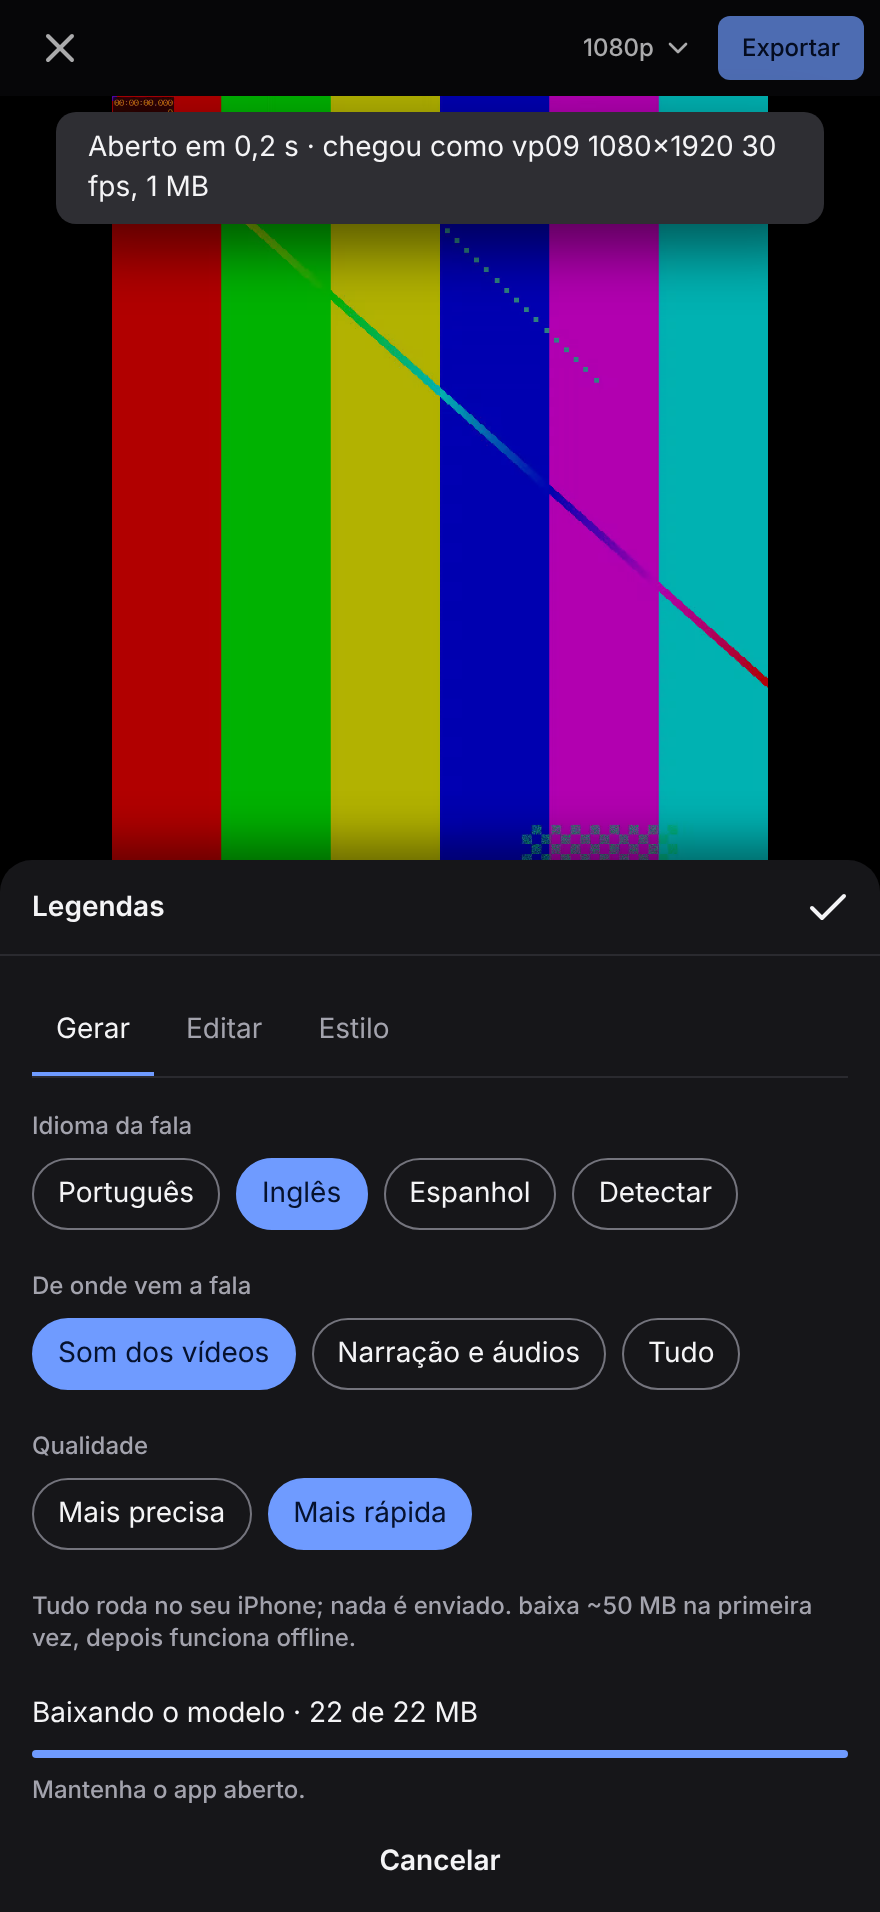
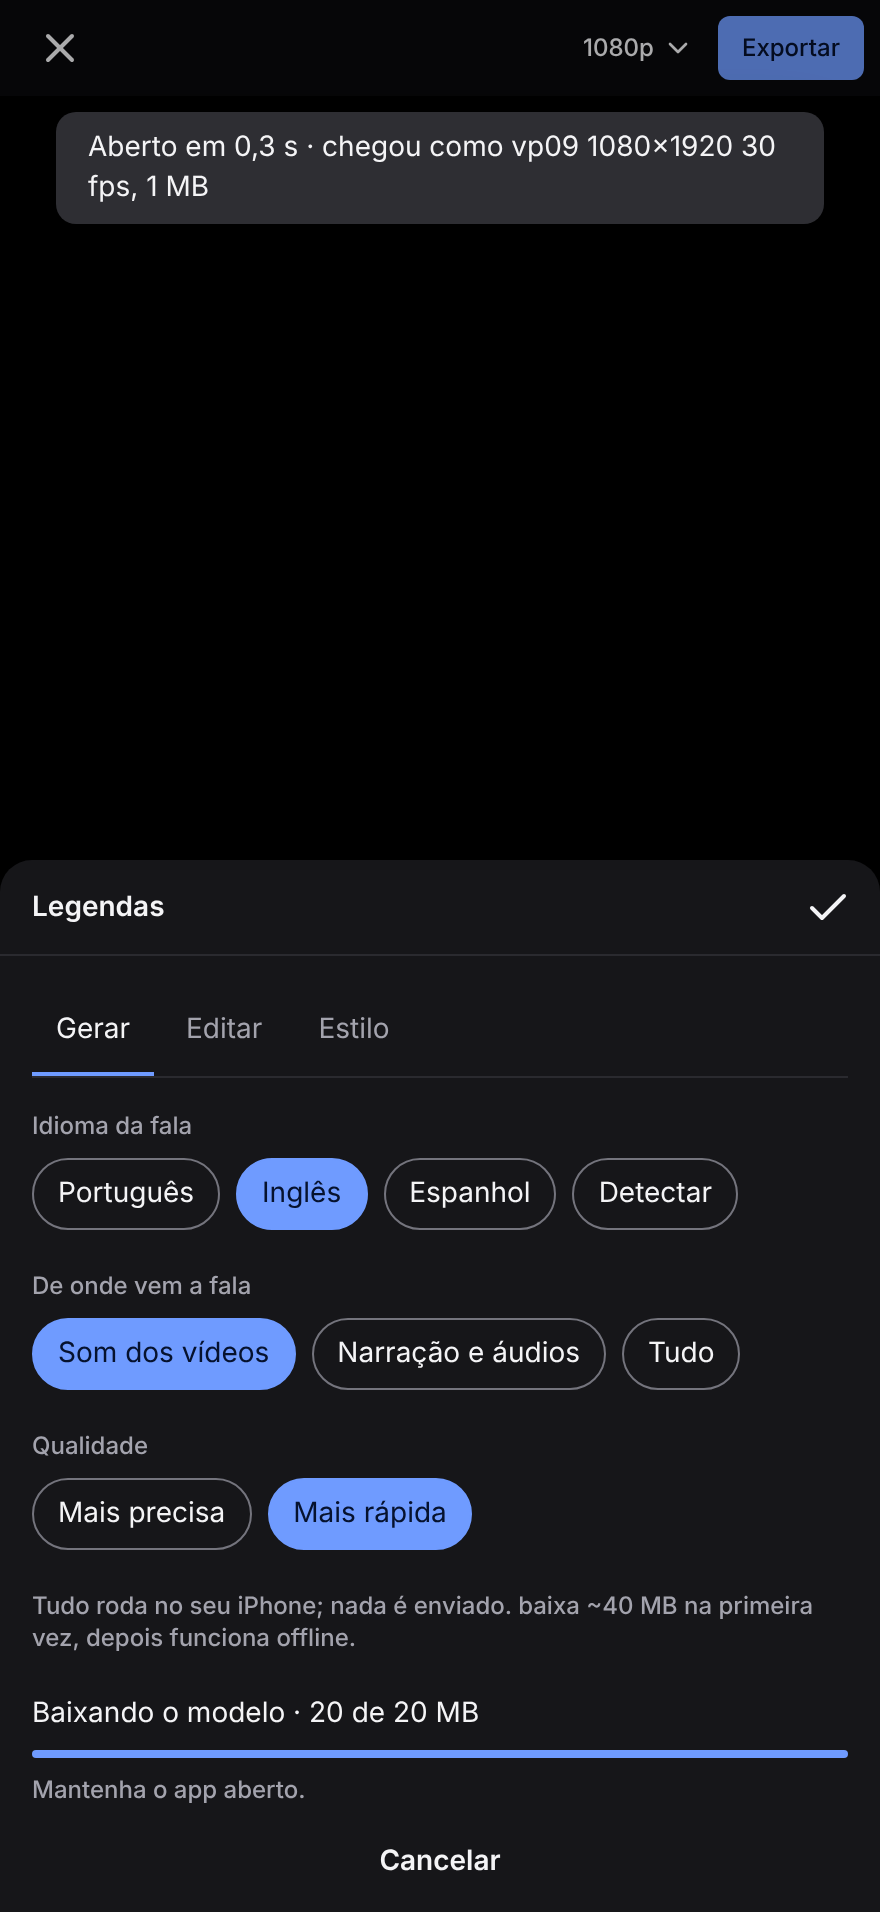
Keep caption generation within iPhone memory
Run Whisper on the CPU with 8-bit models instead of the GPU path with an
fp32 encoder, dispose an earlier model before loading another, release
the preview's video during the run, and if iOS closes the app mid-run,
say so on the next open and switch to the lighter model.

Claude-Session: https://claude.ai/code/session_0171u1mNBnwSWvSmcMh16wpa

diff --git a/app/src/screens/CaptionSheet.tsx b/app/src/screens/CaptionSheet.tsx
@@ -31,9 +31,23 @@ const SOURCES: { value: CaptionSource; label: string }[] = [
   { value: "all", label: "Tudo" },
 ];
 const MODELS: { value: AsrModel; label: string; note: string }[] = [
-  { value: "base", label: "Mais precisa", note: "baixa ~140 MB na primeira vez" },
-  { value: "tiny", label: "Mais rápida", note: "baixa ~50 MB na primeira vez" },
+  { value: "base", label: "Mais precisa", note: "baixa ~75 MB na primeira vez" },
+  { value: "tiny", label: "Mais rápida", note: "baixa ~40 MB na primeira vez" },
 ];
+
+// Set while captions are being generated. If it is still there when the app
+// starts, iOS closed the app in the middle (usually memory).
+const RUNNING_KEY = "asr-running";
+export function takeCrashedCaptionRun(): { model: AsrModel } | null {
+  try {
+    const raw = localStorage.getItem(RUNNING_KEY);
+    if (!raw) return null;
+    localStorage.removeItem(RUNNING_KEY);
+    return JSON.parse(raw) as { model: AsrModel };
+  } catch {
+    return null;
+  }
+}
 
 interface Prefs {
   language: string;
@@ -82,7 +96,21 @@ function describe(e: TranscribeEvent): Run {
   return { label: `Transcrevendo${e.device === "webgpu" ? " (GPU)" : ""}`, fraction: e.fraction };
 }
 
-export function CaptionSheet({ open, tab, onTab, onClose }: { open: boolean; tab: CaptionTab; onTab: (t: CaptionTab) => void; onClose: () => void }) {
+export function CaptionSheet({
+  open,
+  tab,
+  onTab,
+  onClose,
+  onBeforeRun,
+  onAfterRun,
+}: {
+  open: boolean;
+  tab: CaptionTab;
+  onTab: (t: CaptionTab) => void;
+  onClose: () => void;
+  onBeforeRun?: () => void; // free memory (the preview's video) while the model runs
+  onAfterRun?: () => void;
+}) {
   const toast = useToast();
   const doc = useEditor((s) => s.draft ?? s.doc);
   const [prefs, setPrefs] = useState<Prefs>(loadPrefs);
@@ -108,6 +136,12 @@ export function CaptionSheet({ open, tab, onTab, onClose }: { open: boolean; tab
     setRun({ label: "Preparando o som", fraction: null });
     let lock: WakeLockSentinel | null = null;
     try {
+      localStorage.setItem(RUNNING_KEY, JSON.stringify({ model: prefs.model, at: Date.now() }));
+    } catch {
+      // private mode: no crash guard
+    }
+    onBeforeRun?.();
+    try {
       lock = await navigator.wakeLock?.request("screen").catch(() => null);
       const segments = await transcribe(
         s.doc,
@@ -130,8 +164,14 @@ export function CaptionSheet({ open, tab, onTab, onClose }: { open: boolean; tab
       }
     } finally {
       await lock?.release().catch(() => {});
+      try {
+        localStorage.removeItem(RUNNING_KEY);
+      } catch {
+        // nothing to clear
+      }
       abort.current = null;
       setRun(null);
+      onAfterRun?.();
     }
   }
 

diff --git a/app/src/captions/asr.worker.ts b/app/src/captions/asr.worker.ts
@@ -1,7 +1,8 @@
 // Speech recognition in a worker, with Whisper through transformers.js. The
 // model is downloaded once (Hugging Face) and kept in the browser's cache, so
-// later runs work offline. Uses the GPU (WebGPU) when there is one, else the
-// CPU (WASM).
+// later runs work offline. Runs on the CPU (WASM) with 8-bit models: on the
+// iPhone the GPU path (fp32 encoder) used enough memory for iOS to close the
+// app, so WebGPU is opt-in (gpu: true) until it is proven safe there.
 import { env, pipeline, type AutomaticSpeechRecognitionPipeline } from "@huggingface/transformers";
 
 export type AsrModel = "base" | "tiny";
@@ -11,6 +12,7 @@ export type AsrRequest = {
   audio: Float32Array; // 16 kHz mono, timeline-aligned
   language: string | null; // "portuguese", "english"... null = detect
   model: AsrModel;
+  gpu?: boolean;
   // tests only: load the model and runtime from this server instead of the internet
   local?: { modelPath: string; wasmPath: string };
 };
@@ -42,8 +44,8 @@ async function hasWebGpu() {
   }
 }
 
-async function load(model: AsrModel, local: AsrRequest["local"]) {
-  const key = `${model}:${local?.modelPath ?? ""}`;
+async function load(model: AsrModel, local: AsrRequest["local"], gpu: boolean) {
+  const key = `${model}:${gpu}:${local?.modelPath ?? ""}`;
   if (cached?.key === key) return cached;
   if (local) {
     env.allowRemoteModels = false;
@@ -78,7 +80,7 @@ async function load(model: AsrModel, local: AsrRequest["local"]) {
     return { key, asr, device };
   };
 
-  if (!local && (await hasWebGpu())) {
+  if (gpu && !local && (await hasWebGpu())) {
     try {
       cached = await tryDevice("webgpu");
       return cached;
@@ -117,9 +119,14 @@ function windows(audio: Float32Array): [number, number][] {
 }
 
 self.onmessage = async (e: MessageEvent<AsrRequest>) => {
-  const { audio, language, model, local } = e.data;
+  const { audio, language, model, local, gpu = false } = e.data;
   try {
-    const { asr, device } = await load(model, local);
+    // free a model loaded before, so two never sit in memory together
+    if (cached && cached.key !== `${model}:${gpu}:${local?.modelPath ?? ""}`) {
+      await cached.asr.dispose().catch(() => {});
+      cached = null;
+    }
+    const { asr, device } = await load(model, local, gpu);
     post({ type: "status", stage: "transcribing", device });
     const parts = windows(audio);
     for (let i = 0; i < parts.length; i++) {

diff --git a/app/src/screens/Editor.tsx b/app/src/screens/Editor.tsx
@@ -41,7 +41,7 @@ import { TextOverlay } from "../editor/TextOverlay";
 import { TextSheet, type TextTab } from "./TextSheet";
 import { AudioMenu, FadeSheet, RecordSheet } from "./AudioSheets";
 import { TransitionSheet } from "./TransitionSheet";
-import { CaptionSheet, type CaptionTab } from "./CaptionSheet";
+import { CaptionSheet, takeCrashedCaptionRun, type CaptionTab } from "./CaptionSheet";
 import { audio, peaksOf } from "../editor/audio";
 import {
   addAudio,
@@ -158,6 +158,22 @@ export function Editor({ projectId }: { projectId: Id }) {
       const gone = new Set<Id>();
       for (const a of useEditor.getState().assets.values()) if (!(await assetFile(a))) gone.add(a.id);
       if (alive) setMissing(gone);
+      // the last caption run never finished: iOS closed the app (memory)
+      const crashed = takeCrashedCaptionRun();
+      if (crashed) {
+        try {
+          const prefs = JSON.parse(localStorage.getItem("caption-prefs") ?? "{}");
+          localStorage.setItem("caption-prefs", JSON.stringify({ ...prefs, model: "tiny" }));
+        } catch {
+          // keep the old choice
+        }
+        toast(
+          crashed.model === "base"
+            ? "O iPhone fechou o app ao gerar as legendas (falta de memória). Mudei para a qualidade Mais rápida; tente de novo."
+            : "O iPhone fechou o app ao gerar as legendas (falta de memória). Feche outros apps e tente de novo, ou use um trecho menor.",
+          "error",
+        );
+      }
       const took = takeImport(projectId);
       const first = [...useEditor.getState().assets.values()].find((a) => a.kind === "video");
       if (took && first)
@@ -657,6 +673,8 @@ export function Editor({ projectId }: { projectId: Id }) {
         tab={panel?.name === "captions" ? panel.tab : "generate"}
         onTab={(tab) => setPanel({ name: "captions", tab })}
         onClose={() => closeEditing("Editar legendas")}
+        onBeforeRun={() => player.current?.release()}
+        onAfterRun={() => void player.current?.showAt(useEditor.getState().playheadUs)}
       />
 
       <TransitionSheet

diff --git a/replica/build-log.md b/replica/build-log.md
@@ -61,6 +61,15 @@ a message on the preview instead of staying black.
 video again (typed OPFS files), and voice-over recording works after switching
 the iOS audio session to play-and-record while recording.
 
+**Captions crashed the app on the iPhone (2026-10-18):** Safari showed "Um
+problema ocorreu repetidamente" (iOS killed the page, almost always memory).
+The GPU path loaded the base model's encoder in fp32 (~80 MB, several copies
+while the session is built). Changes: captions now run on the CPU with 8-bit
+models (~75 MB base, ~40 MB tiny), WebGPU is opt-in; a previously loaded model
+is disposed before another loads; the preview's video is released during the
+run; and a run that never finished is reported on the next open, switching
+the quality to "Mais rápida".
+
 | ID | date | status | missing | harder than expected |
 | --- | --- | --- | --- | --- |
 | shell | 2026-10-17 | done | — | — |
